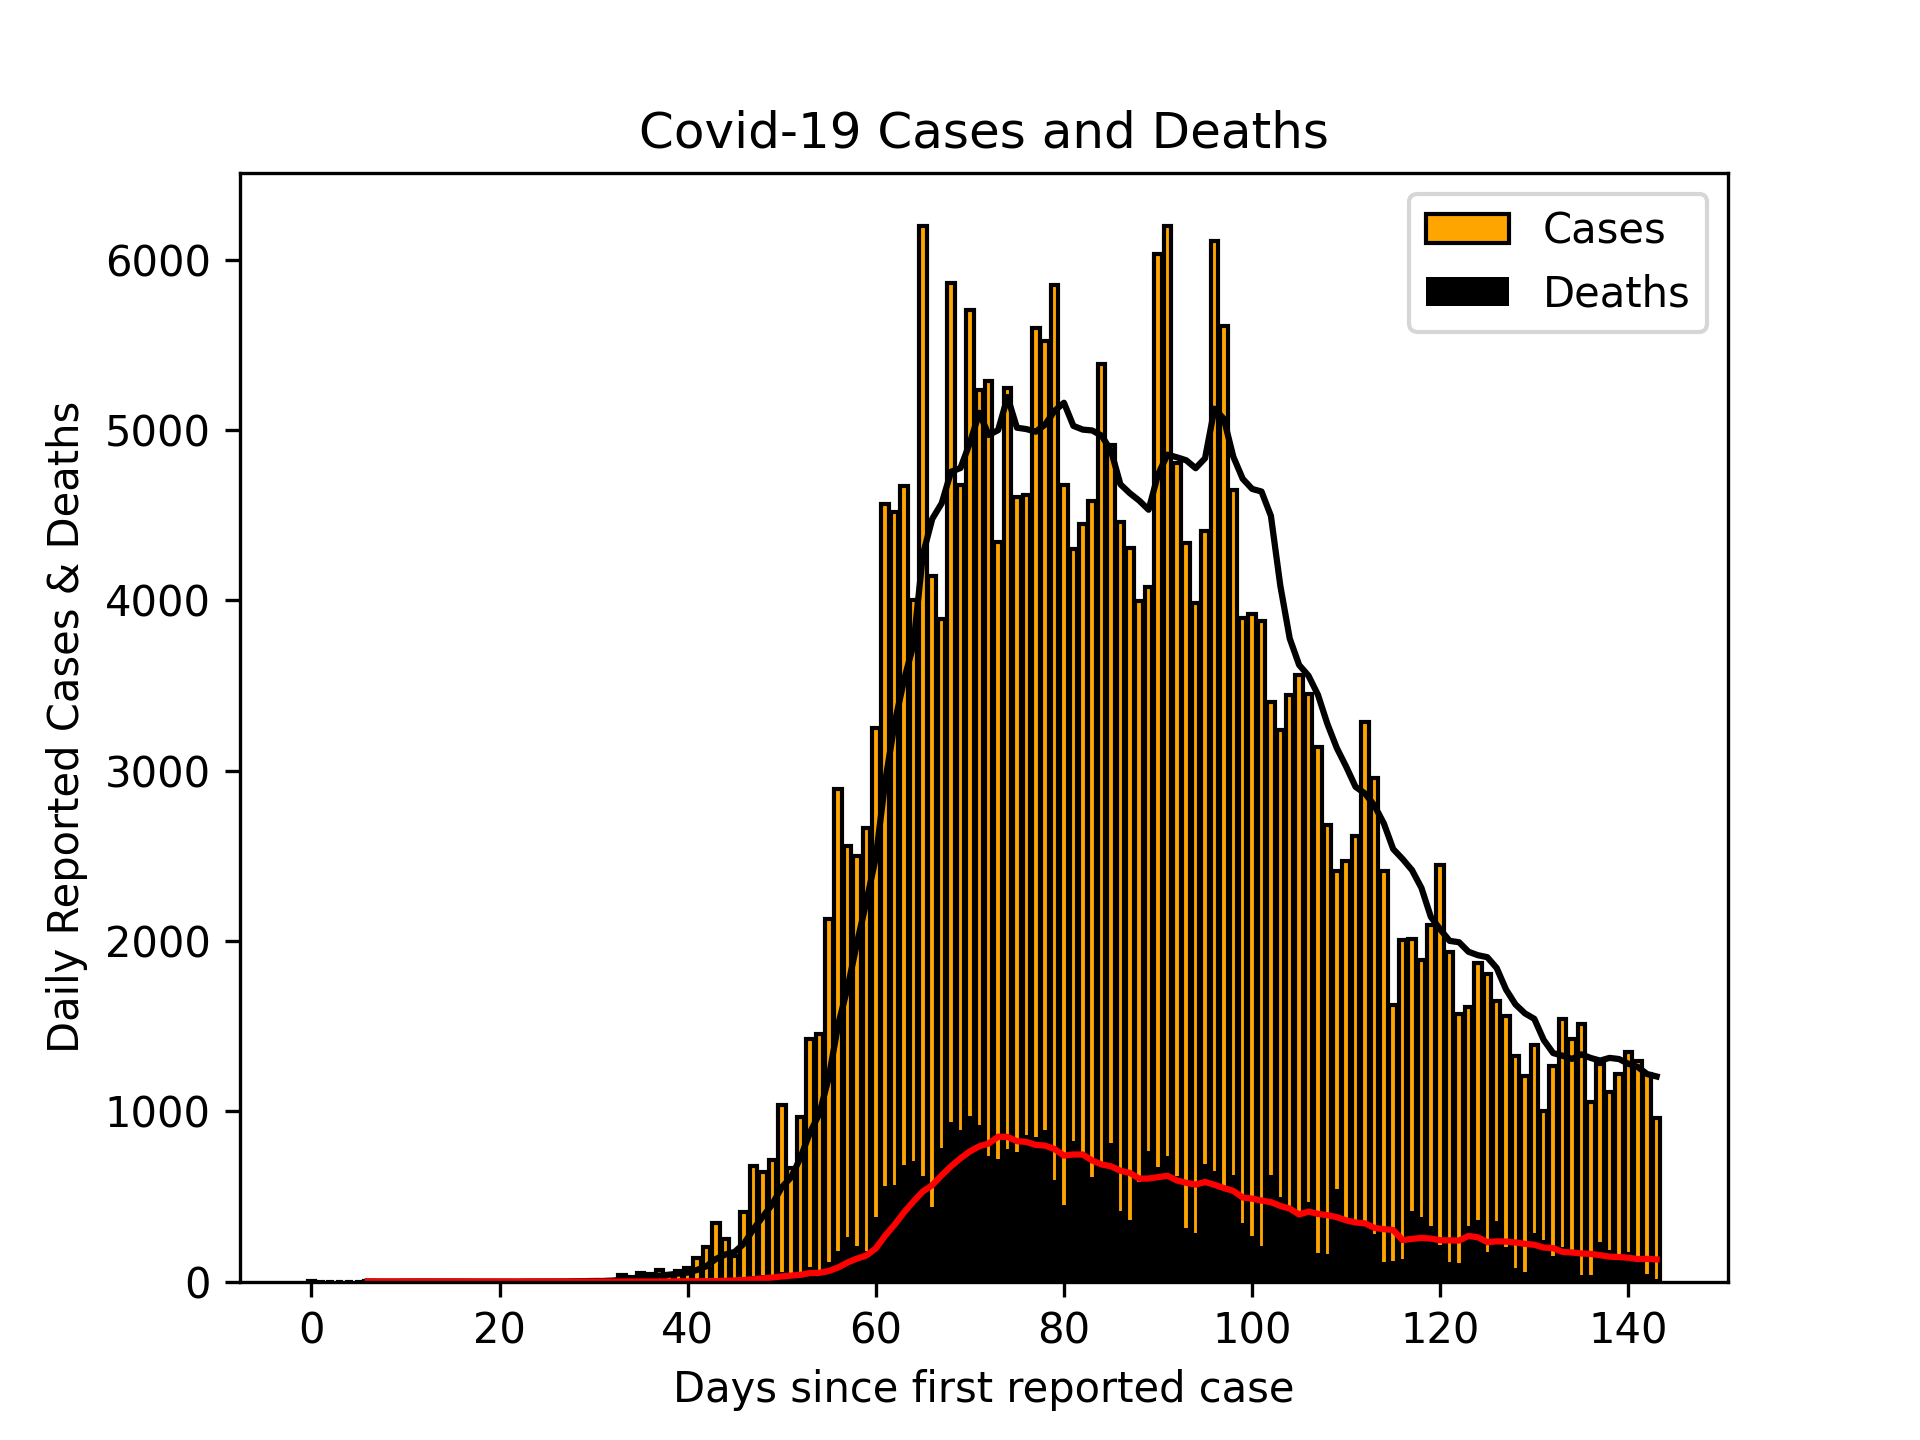
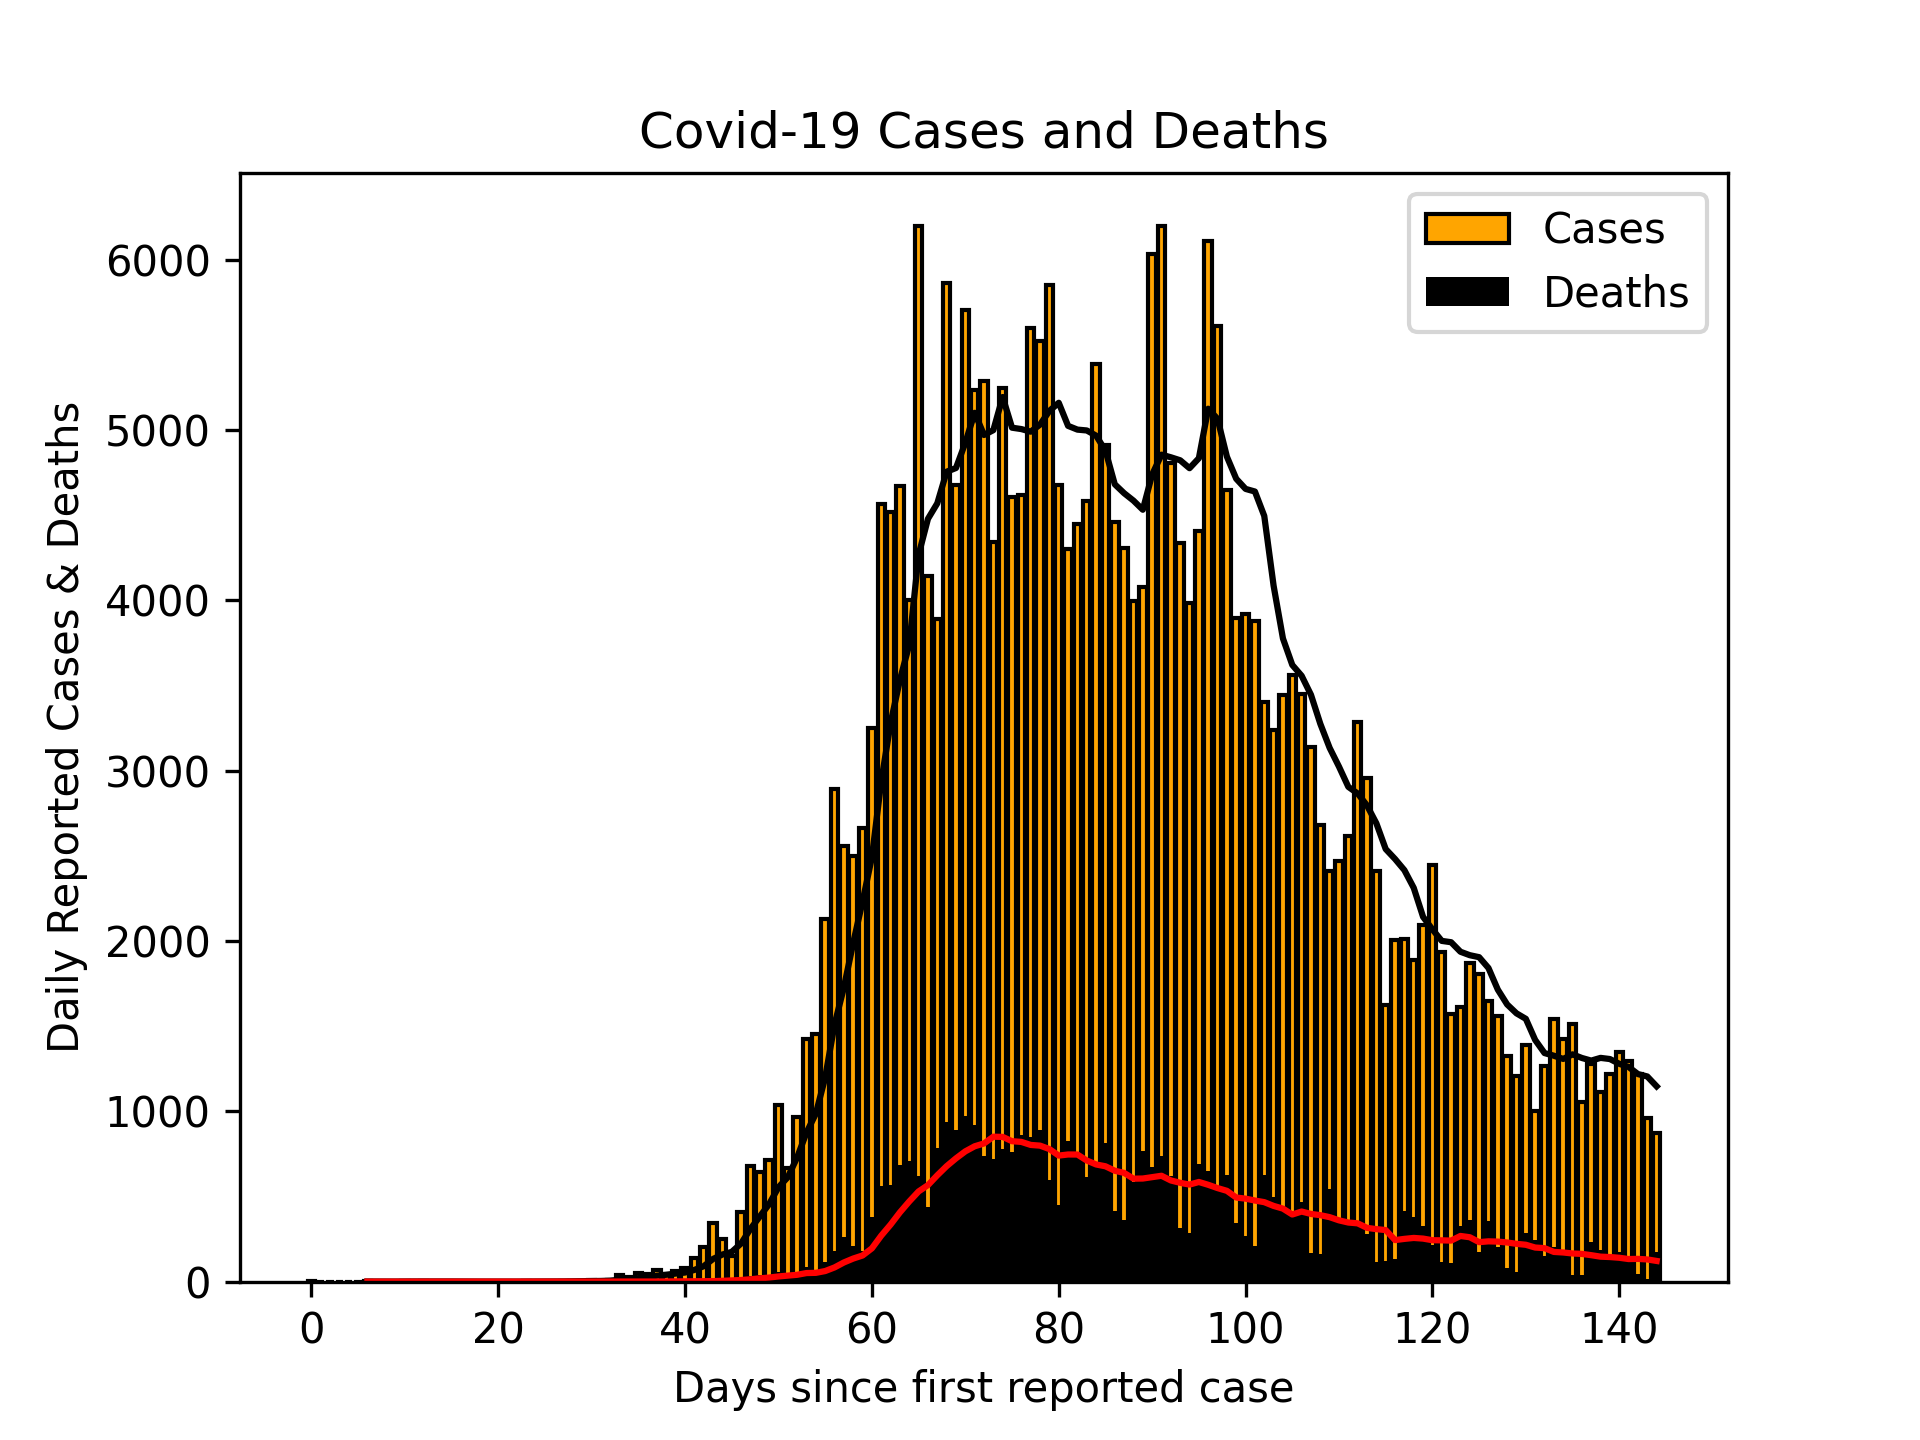
Updated UK cases 23/06/20

diff --git a/README.md b/README.md
@@ -1,5 +1,5 @@
 # Scottish Cases 23/06/20
 ![alt](scottish_cases.png)
 
-# UK Cases 22/06/20
+# UK Cases 23/06/20
 ![alt](uk_cases.png)
